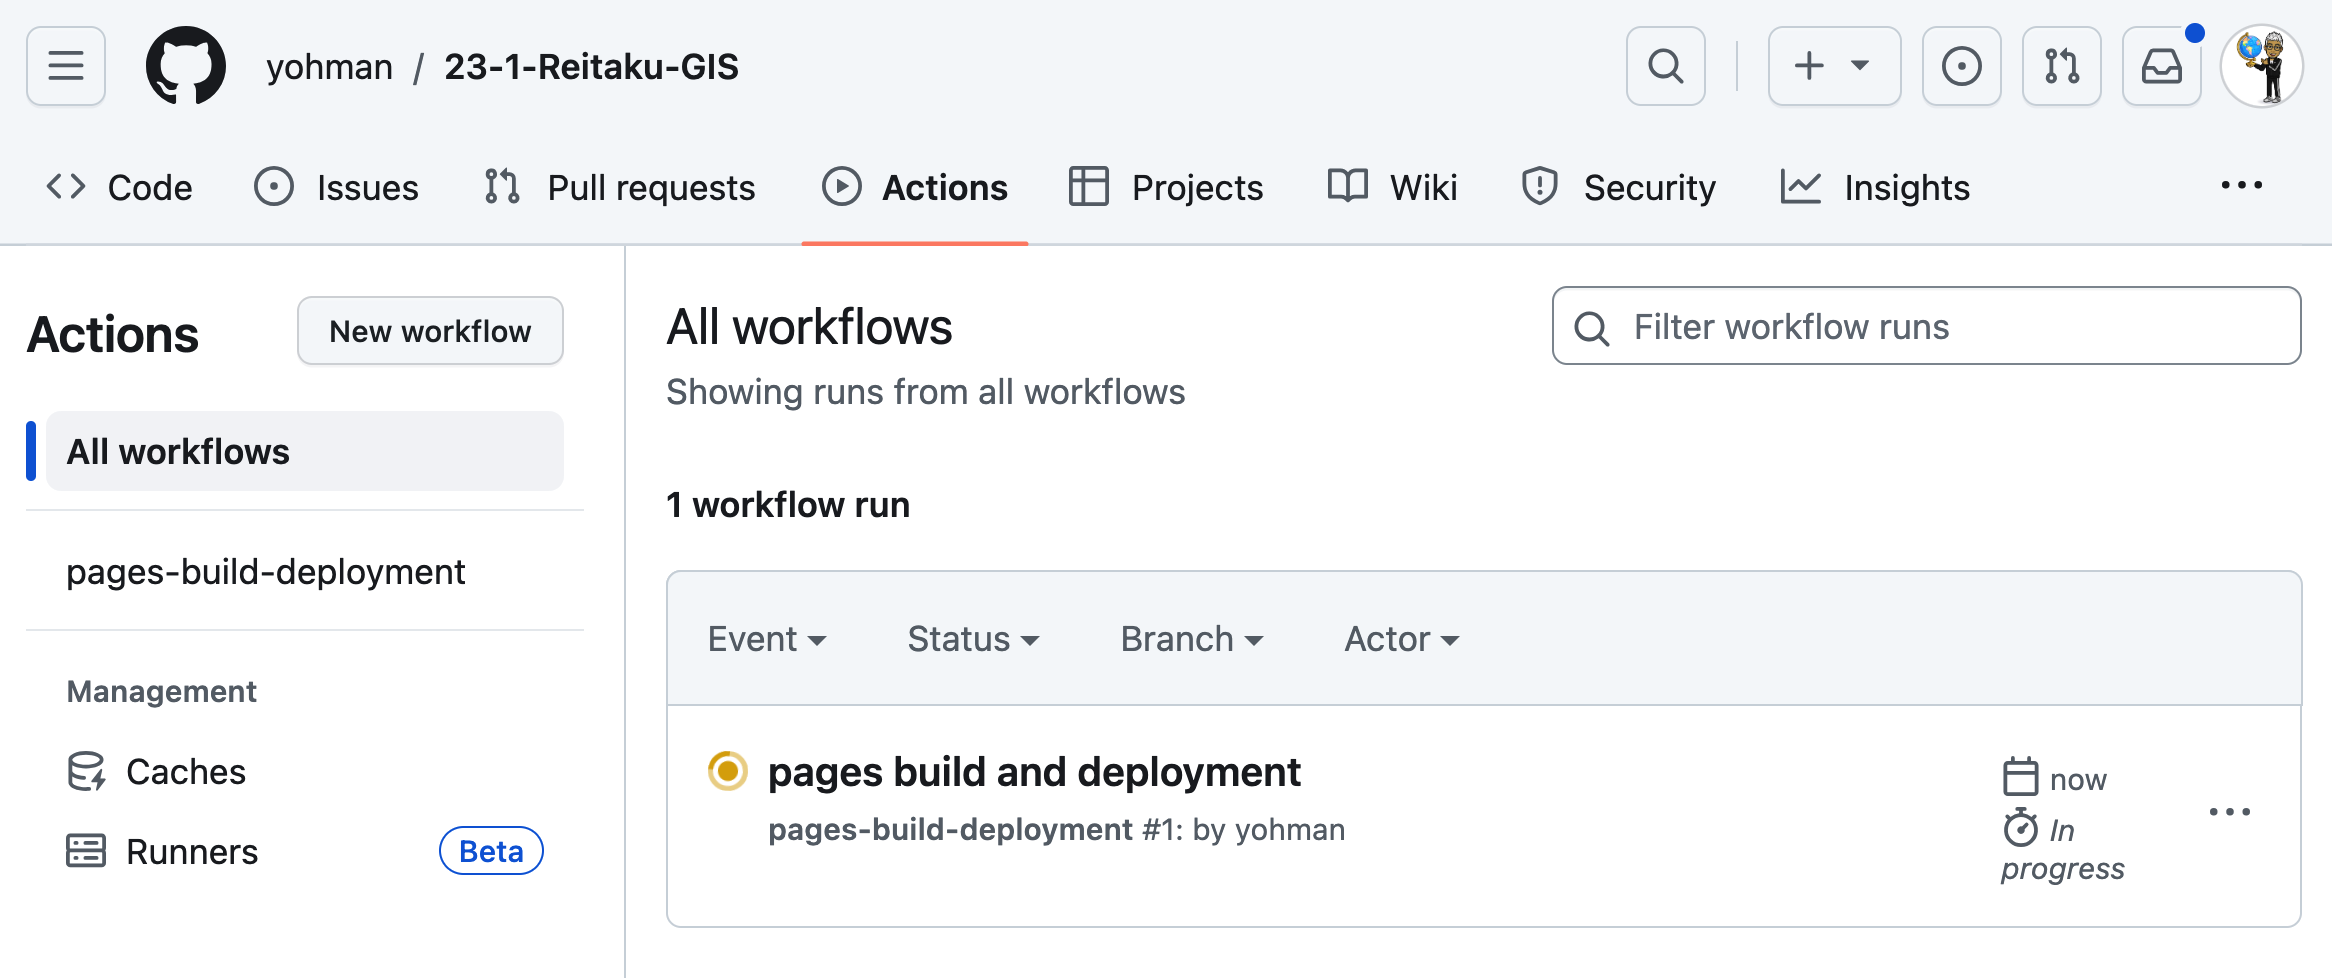
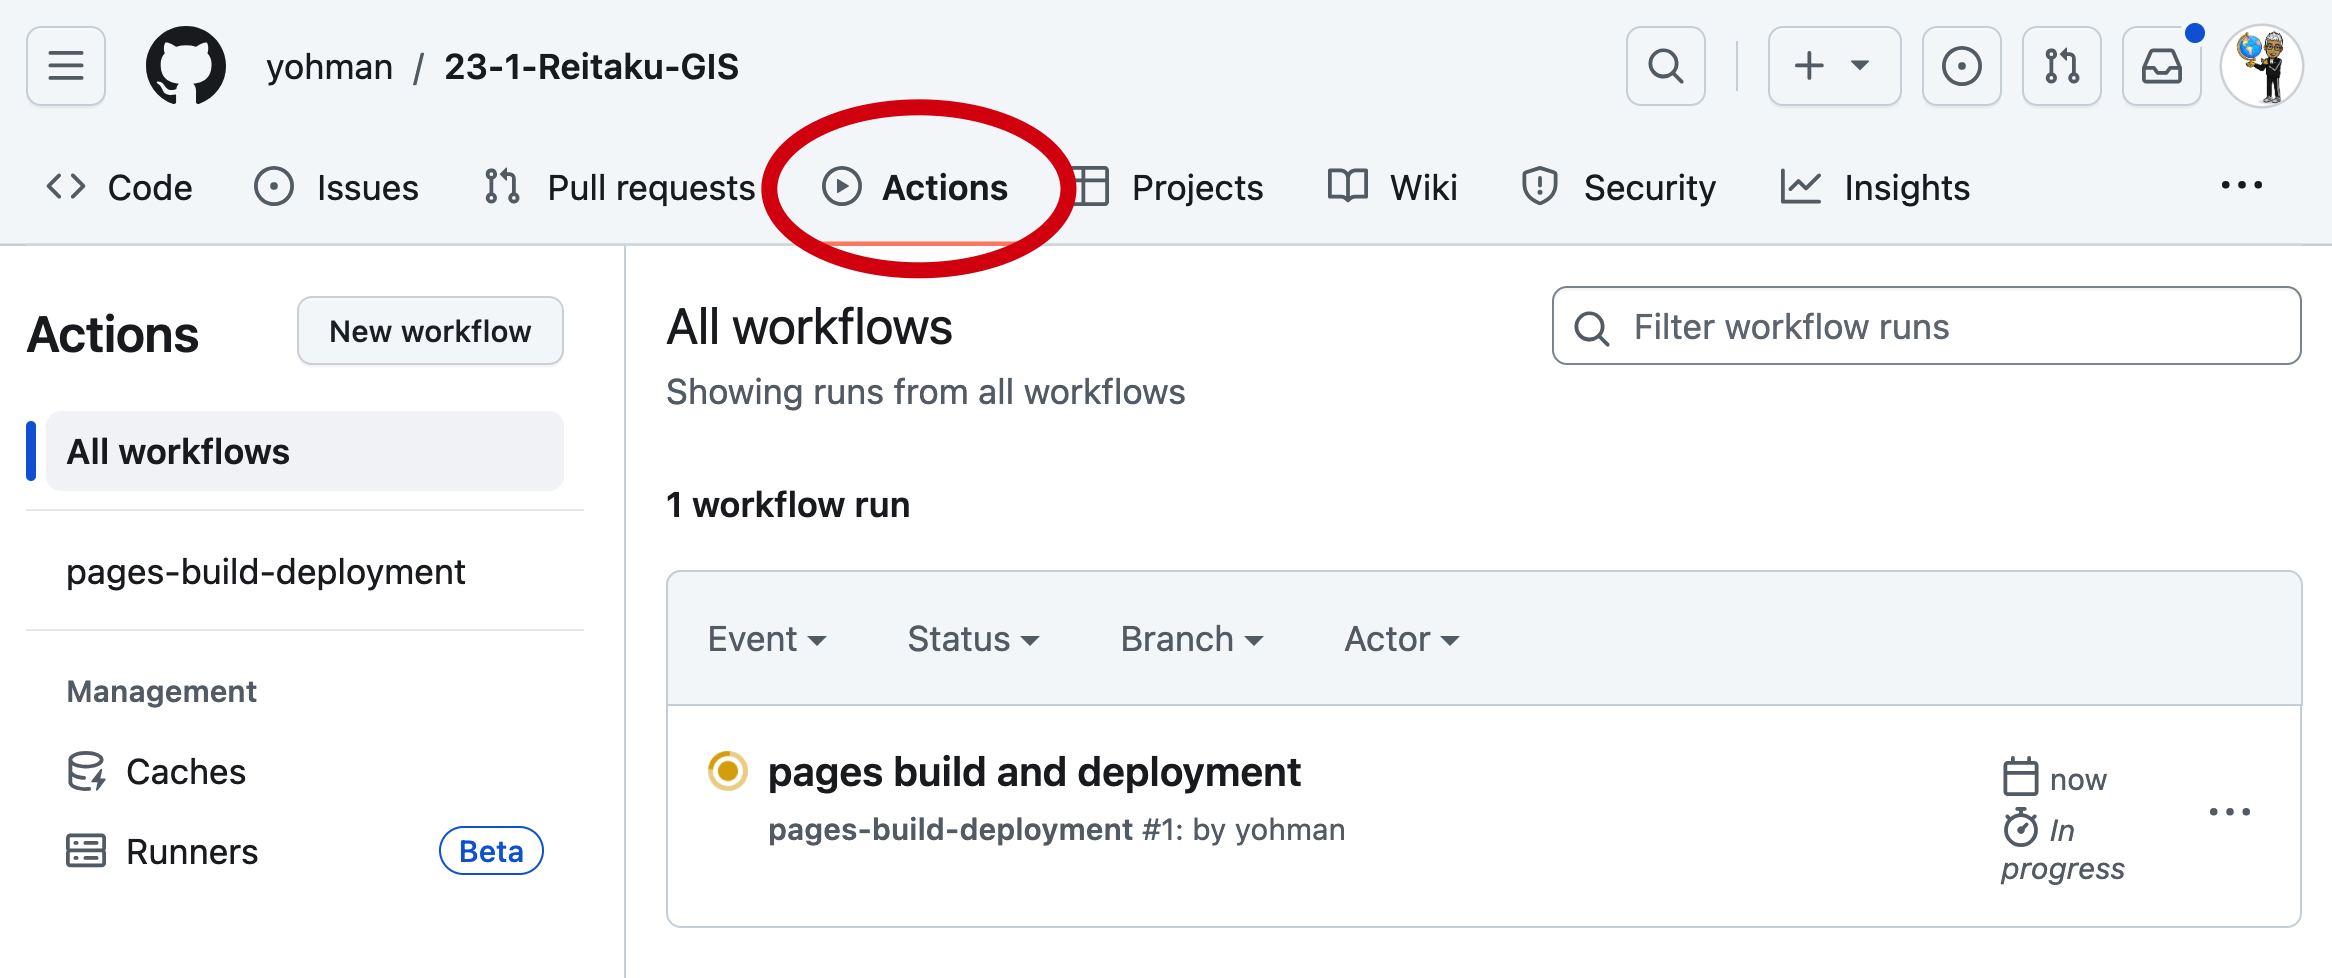
week 5 prep

Changed region(s): [[0.3087, 0.092, 0.4631, 0.3067]]

diff --git a/Weeks/Week05/map.html b/Weeks/Week05/map.html
@@ -1,0 +1,98 @@
+<!DOCTYPE html>
+<html>
+<head>
+    
+    <meta http-equiv="content-type" content="text/html; charset=UTF-8" />
+    
+        <script>
+            L_NO_TOUCH = false;
+            L_DISABLE_3D = false;
+        </script>
+    
+    <style>html, body {width: 100%;height: 100%;margin: 0;padding: 0;}</style>
+    <style>#map {position:absolute;top:0;bottom:0;right:0;left:0;}</style>
+    <script src="https://cdn.jsdelivr.net/npm/leaflet@1.9.3/dist/leaflet.js"></script>
+    <script src="https://code.jquery.com/jquery-1.12.4.min.js"></script>
+    <script src="https://cdn.jsdelivr.net/npm/bootstrap@5.2.2/dist/js/bootstrap.bundle.min.js"></script>
+    <script src="https://cdnjs.cloudflare.com/ajax/libs/Leaflet.awesome-markers/2.0.2/leaflet.awesome-markers.js"></script>
+    <link rel="stylesheet" href="https://cdn.jsdelivr.net/npm/leaflet@1.9.3/dist/leaflet.css"/>
+    <link rel="stylesheet" href="https://cdn.jsdelivr.net/npm/bootstrap@5.2.2/dist/css/bootstrap.min.css"/>
+    <link rel="stylesheet" href="https://netdna.bootstrapcdn.com/bootstrap/3.0.0/css/bootstrap.min.css"/>
+    <link rel="stylesheet" href="https://cdn.jsdelivr.net/npm/@fortawesome/fontawesome-free@6.2.0/css/all.min.css"/>
+    <link rel="stylesheet" href="https://cdnjs.cloudflare.com/ajax/libs/Leaflet.awesome-markers/2.0.2/leaflet.awesome-markers.css"/>
+    <link rel="stylesheet" href="https://cdn.jsdelivr.net/gh/python-visualization/folium/folium/templates/leaflet.awesome.rotate.min.css"/>
+    
+            <meta name="viewport" content="width=device-width,
+                initial-scale=1.0, maximum-scale=1.0, user-scalable=no" />
+            <style>
+                #map_29f171940738bc051f48c37e21cb042c {
+                    position: relative;
+                    width: 100.0%;
+                    height: 100.0%;
+                    left: 0.0%;
+                    top: 0.0%;
+                }
+                .leaflet-container { font-size: 1rem; }
+            </style>
+        
+</head>
+<body>
+    
+    
+            <div class="folium-map" id="map_29f171940738bc051f48c37e21cb042c" ></div>
+        
+</body>
+<script>
+    
+    
+            var map_29f171940738bc051f48c37e21cb042c = L.map(
+                "map_29f171940738bc051f48c37e21cb042c",
+                {
+                    center: [35.833, 139.955],
+                    crs: L.CRS.EPSG3857,
+                    zoom: 15,
+                    zoomControl: true,
+                    preferCanvas: false,
+                }
+            );
+
+            
+
+        
+    
+            var tile_layer_189c0cd6f12a96206e4bd01e4d1f01b5 = L.tileLayer(
+                "https://{s}.tile.openstreetmap.org/{z}/{x}/{y}.png",
+                {"attribution": "Data by \u0026copy; \u003ca target=\"_blank\" href=\"http://openstreetmap.org\"\u003eOpenStreetMap\u003c/a\u003e, under \u003ca target=\"_blank\" href=\"http://www.openstreetmap.org/copyright\"\u003eODbL\u003c/a\u003e.", "detectRetina": false, "maxNativeZoom": 18, "maxZoom": 18, "minZoom": 0, "noWrap": false, "opacity": 1, "subdomains": "abc", "tms": false}
+            ).addTo(map_29f171940738bc051f48c37e21cb042c);
+        
+    
+            var marker_ba179fa5c0aa1ef728b27e01514de835 = L.marker(
+                [35.833, 139.955],
+                {}
+            ).addTo(map_29f171940738bc051f48c37e21cb042c);
+        
+    
+        var popup_c8933447d76e11dcb19d3c11b9164e4b = L.popup({"maxWidth": "100%"});
+
+        
+            
+                var html_b4a46cc51bbd8fcafdc6c5e2d3f9ee45 = $(`<div id="html_b4a46cc51bbd8fcafdc6c5e2d3f9ee45" style="width: 100.0%; height: 100.0%;">Reitaku University, the best place on earth!</div>`)[0];
+                popup_c8933447d76e11dcb19d3c11b9164e4b.setContent(html_b4a46cc51bbd8fcafdc6c5e2d3f9ee45);
+            
+        
+
+        marker_ba179fa5c0aa1ef728b27e01514de835.bindPopup(popup_c8933447d76e11dcb19d3c11b9164e4b)
+        ;
+
+        
+    
+    
+            marker_ba179fa5c0aa1ef728b27e01514de835.bindTooltip(
+                `<div>
+                     Reitaku University
+                 </div>`,
+                {"sticky": true}
+            );
+        
+</script>
+</html>

diff --git a/Weeks/Week05/w5.md b/Weeks/Week05/w5.md
@@ -50,13 +50,57 @@ Publishing your Web Map
 1. Click on "Settings"
 
 ## 
-![width:600](images/s2.png)
+![width:550](images/s2.png)
+<hr>
+
 1. Click on `pages`
 1. Under `Branch` click on the `None` dropdown
 1. Select `main`
 1. Click on `save`
 
 ##
-![width:600](images/s3.png)
+![width:800](images/s3.png)
+<hr>
+
 1. Go to `Actions`
-1. Confirm that 
+1. Wait for yellow circle 🟡 to turn to green 🟢
+
+##
+
+![width:800](images/s4.png)
+<hr>
+
+1. Go back to `Settings`/`Pages`
+1. Note the URL for your GitHub account
+
+## Open VSCode
+
+1. Open the notebook with the folium map you want to publish
+1. Make sure the map is in a variable (in the map below, the map variable is `m`)
+
+```python
+# import folium, a leaflet python library
+import folium
+
+# create a list of lat/lon pair for UCLA
+reitaku = [35.8330, 139.9550]
+
+# make the map
+m = folium.Map(location=reitaku, zoom_start=15)
+
+# add a marker
+folium.Marker(reitaku, 
+              popup="Reitaku University, the best place on earth!", 
+              tooltip="Reitaku University").add_to(m)
+
+# show the map
+m
+```
+
+## 
+```python
+m.save("map.html")
+```
+
+1. Create a new code cell, and add code above
+1. Save and commit to GitHub
